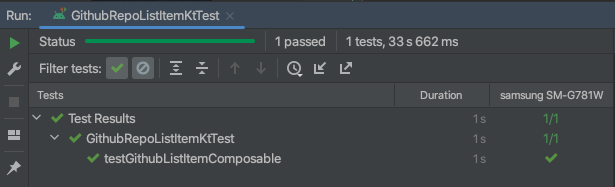
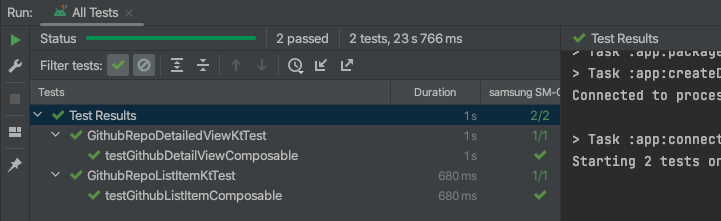
Added Detailed View using Compose. Updated readme images/gif

diff --git a/app/src/main/java/com/shreyas/nytimes/ui/GithubRepoDetailedView.kt b/app/src/main/java/com/shreyas/nytimes/ui/GithubRepoDetailedView.kt
@@ -1,0 +1,190 @@
+package com.shreyas.nytimes.ui
+
+import android.content.res.Configuration
+import androidx.compose.foundation.Image
+import androidx.compose.foundation.ScrollState
+import androidx.compose.foundation.layout.BoxWithConstraints
+import androidx.compose.foundation.layout.Column
+import androidx.compose.foundation.layout.Row
+import androidx.compose.foundation.layout.Spacer
+import androidx.compose.foundation.layout.fillMaxSize
+import androidx.compose.foundation.layout.fillMaxWidth
+import androidx.compose.foundation.layout.height
+import androidx.compose.foundation.layout.heightIn
+import androidx.compose.foundation.layout.padding
+import androidx.compose.foundation.layout.wrapContentHeight
+import androidx.compose.foundation.rememberScrollState
+import androidx.compose.foundation.verticalScroll
+import androidx.compose.material.ContentAlpha
+import androidx.compose.material.Divider
+import androidx.compose.material.LocalContentAlpha
+import androidx.compose.material.MaterialTheme
+import androidx.compose.material.Surface
+import androidx.compose.material.Text
+import androidx.compose.runtime.Composable
+import androidx.compose.runtime.CompositionLocalProvider
+import androidx.compose.ui.Modifier
+import androidx.compose.ui.graphics.painter.Painter
+import androidx.compose.ui.layout.ContentScale
+import androidx.compose.ui.platform.LocalContext
+import androidx.compose.ui.platform.LocalDensity
+import androidx.compose.ui.res.stringResource
+import androidx.compose.ui.text.font.FontWeight
+import androidx.compose.ui.tooling.preview.Preview
+import androidx.compose.ui.unit.Dp
+import androidx.compose.ui.unit.coerceAtLeast
+import androidx.compose.ui.unit.dp
+import coil.compose.rememberAsyncImagePainter
+import coil.request.ImageRequest
+import coil.size.Size
+import com.shreyas.nytimes.R
+import com.shreyas.nytimes.model.RepositoryData
+import com.shreyas.nytimes.ui.theme.GithubRepositoryTheme
+import com.shreyas.nytimes.utils.GithubRepositoryDataProvider
+
+@Composable
+fun GithubRepoDetailedView(
+    repositoryData: RepositoryData
+) {
+    val scrollState = rememberScrollState()
+
+    Column(modifier = Modifier.fillMaxSize()) {
+        BoxWithConstraints {
+            Surface {
+                Column(
+                    modifier = Modifier
+                        .fillMaxSize()
+                        .verticalScroll(scrollState)
+                ) {
+                    GithubRepoHeader(
+                        scrollState,
+                        repositoryData,
+                        this@BoxWithConstraints.maxHeight
+                    )
+                    GithubRepoContent(
+                        repositoryData = repositoryData,
+                        containerHeight = this@BoxWithConstraints.maxHeight
+                    )
+                }
+            }
+        }
+    }
+}
+
+@Composable
+private fun GithubRepoHeader(
+    scrollState: ScrollState,
+    repositoryData: RepositoryData,
+    containerHeight: Dp
+) {
+    val offSet = (scrollState.value / 2)
+    val offsetDp = with(LocalDensity.current) { offSet.toDp() }
+    val avatar: Painter = rememberAsyncImagePainter(
+        model = ImageRequest.Builder(LocalContext.current)
+            .data(repositoryData.owner.avatar_url)
+            .size(Size.ORIGINAL)
+            .build()
+    )
+
+    Image(
+        modifier = Modifier
+            .heightIn(max = containerHeight / 2)
+            .fillMaxWidth()
+            .padding(top = offsetDp),
+        painter = avatar,
+        contentDescription = "Github Repository Avatar",
+        contentScale = ContentScale.Crop
+    )
+}
+
+@Composable
+private fun GithubRepoContent(
+    repositoryData: RepositoryData,
+    containerHeight: Dp
+) {
+    Column {
+        Spacer(modifier = Modifier.height(8.dp))
+
+        RepoName(repositoryData)
+
+        RepoProperty(
+            label = stringResource(id = R.string.description),
+            value = repositoryData.description
+        )
+
+        RepoProperty(
+            label = stringResource(id = R.string.htmlUrl),
+            value = repositoryData.html_url,
+            isLink = true
+        )
+
+        // Add a spacer that always shows part (320.dp) of the fields list regardless of the device,
+        // in order to always leave some content at the top.
+        Spacer(modifier = Modifier.height((containerHeight - 320.dp).coerceAtLeast(0.dp)))
+    }
+}
+
+@Composable
+private fun RepoName(
+    repositoryData: RepositoryData
+) {
+    Row(
+        modifier = Modifier.padding(bottom = 8.dp)
+    ) {
+        Text(
+            text = repositoryData.name,
+            modifier = Modifier
+                .fillMaxWidth()
+                .wrapContentHeight()
+                .padding(start = 15.dp),
+            style = MaterialTheme.typography.h5,
+            fontWeight = FontWeight.Bold,
+            minLines = 1,
+            maxLines = 2
+        )
+    }
+}
+
+@Composable
+private fun RepoProperty(
+    label: String,
+    value: String,
+    isLink: Boolean = false
+) {
+    Column(modifier = Modifier.padding(start = 16.dp, end = 16.dp, bottom = 16.dp)) {
+        Divider()
+        CompositionLocalProvider(LocalContentAlpha provides ContentAlpha.medium) {
+            Text(
+                text = label,
+                modifier = Modifier
+                    .height(24.dp)
+                    .padding(top = 8.dp),
+                style = MaterialTheme.typography.caption,
+            )
+        }
+        val style = if (isLink) {
+            MaterialTheme.typography.body1.copy(color = MaterialTheme.colors.primary)
+        } else {
+            MaterialTheme.typography.body1
+        }
+        Text(
+            text = value,
+            modifier = Modifier
+                .fillMaxWidth()
+                .wrapContentHeight()
+                .padding(top = 4.dp),
+            style = style,
+            minLines = 3
+        )
+    }
+}
+
+@Preview(showBackground = true, backgroundColor = 0xFFFFFFFF)
+@Preview("Night", uiMode = Configuration.UI_MODE_NIGHT_YES, showBackground = true)
+@Composable
+private fun GithubRepoDetailedViewPreview() {
+    GithubRepositoryTheme {
+        GithubRepoDetailedView(repositoryData = GithubRepositoryDataProvider.repositoryData)
+    }
+}
+

diff --git a/app/src/androidTest/java/com/shreyas/nytimes/ui/GithubRepoDetailedViewKtTest.kt b/app/src/androidTest/java/com/shreyas/nytimes/ui/GithubRepoDetailedViewKtTest.kt
@@ -1,0 +1,54 @@
+package com.shreyas.nytimes.ui
+
+import androidx.compose.material.MaterialTheme
+import androidx.compose.material.Surface
+import androidx.compose.ui.test.assertIsDisplayed
+import androidx.compose.ui.test.junit4.createComposeRule
+import androidx.compose.ui.test.onNodeWithText
+import androidx.test.ext.junit.runners.AndroidJUnit4
+import com.shreyas.nytimes.model.OwnerData
+import com.shreyas.nytimes.model.RepositoryData
+import com.shreyas.nytimes.ui.theme.GithubRepositoryTheme
+import org.junit.Before
+import org.junit.Rule
+import org.junit.Test
+import org.junit.runner.RunWith
+
+@RunWith(AndroidJUnit4::class)
+class GithubRepoDetailedViewKtTest {
+
+    @get:Rule
+    val composeTestRule = createComposeRule()
+
+    private lateinit var mockRepoData: RepositoryData
+
+    @Before
+    fun setup() {
+        mockRepoData = RepositoryData(
+            name = "okhttp",
+            description = "Square’s meticulous HTTP client for the JVM, Android, and GraalVM.",
+            stargazers_count = 44786,
+            forks_count = 9275,
+            updated_at = "2023-12-12T02:20:23Z",
+            html_url = "https://github.com/square/okhttp",
+            owner = OwnerData(avatar_url = "https://avatars.githubusercontent.com/u/82592?v=4")
+        )
+        composeTestRule.setContent {
+            GithubRepositoryTheme {
+                Surface(color = MaterialTheme.colors.background) {
+                    GithubRepoDetailedView(repositoryData = mockRepoData)
+                }
+            }
+        }
+    }
+
+    @Test
+    fun testGithubDetailViewComposable() {
+        composeTestRule.run {
+            onNodeWithText("okhttp").assertIsDisplayed()
+            onNodeWithText("Square’s meticulous HTTP client for the JVM, Android, and GraalVM.")
+                .assertIsDisplayed()
+            onNodeWithText("https://github.com/square/okhttp").assertIsDisplayed()
+        }
+    }
+}

diff --git a/app/src/main/java/com/shreyas/nytimes/ui/GithubRepoListItem.kt b/app/src/main/java/com/shreyas/nytimes/ui/GithubRepoListItem.kt
@@ -38,9 +38,9 @@ import coil.compose.rememberAsyncImagePainter
 import coil.request.ImageRequest
 import coil.size.Size
 import com.shreyas.nytimes.R
-import com.shreyas.nytimes.model.OwnerData
 import com.shreyas.nytimes.model.RepositoryData
 import com.shreyas.nytimes.ui.theme.GithubRepositoryTheme
+import com.shreyas.nytimes.utils.GithubRepositoryDataProvider
 import java.time.Instant
 import java.time.LocalDateTime
 import java.time.ZoneOffset
@@ -212,19 +212,11 @@ fun GithubRepoListItem(
 @Composable
 private fun GithubRepositoryLineItemPreview() {
     GithubRepositoryTheme {
-        GithubRepoListItem(previewRepoData(), navigateToGitHubDetailView = {})
+        GithubRepoListItem(
+            GithubRepositoryDataProvider.repositoryData,
+            navigateToGitHubDetailView = {})
     }
 }
-
-private fun previewRepoData(): RepositoryData = RepositoryData(
-    name = "okhttp",
-    description = "Square’s meticulous HTTP client for the JVM, Android, and GraalVM.",
-    stargazers_count = 44786,
-    forks_count = 9275,
-    updated_at = "2023-12-12T02:20:23Z",
-    html_url = "https://github.com/square/okhttp",
-    owner = OwnerData(avatar_url = "https://avatars.githubusercontent.com/u/82592?v=4")
-)
 
 @Composable
 private fun DrawComposableImage(

diff --git a/app/src/androidTest/java/com/shreyas/nytimes/ui/GithubRepoListItemKtTest.kt b/app/src/androidTest/java/com/shreyas/nytimes/ui/GithubRepoListItemKtTest.kt
@@ -37,7 +37,7 @@ class GithubRepoListItemKtTest {
         composeTestRule.setContent {
             GithubRepositoryTheme {
                 Surface(color = MaterialTheme.colors.background) {
-                    GithubRepoListItem(repoData = mockRepoData)
+                    GithubRepoListItem(repoData = mockRepoData, navigateToGitHubDetailView = {})
                 }
             }
         }
@@ -51,7 +51,7 @@ class GithubRepoListItemKtTest {
                 .assertIsDisplayed()
             onNodeWithText("44786").assertIsDisplayed()
             onNodeWithText("9275").assertIsDisplayed()
-            onNodeWithTag("repoLastUpdatedDate").assertExists()
+            onNodeWithTag("repoLastUpdatedDate", useUnmergedTree = true).assertExists()
         }
     }
 }

diff --git a/app/src/main/java/com/shreyas/nytimes/view/DetailedViewActivity.kt b/app/src/main/java/com/shreyas/nytimes/view/DetailedViewActivity.kt
@@ -6,15 +6,20 @@ import android.os.Bundle
 import androidx.activity.compose.setContent
 import androidx.appcompat.app.AppCompatActivity
 import com.shreyas.nytimes.model.RepositoryData
+import com.shreyas.nytimes.ui.GithubRepoDetailedView
 import com.shreyas.nytimes.ui.theme.GithubRepositoryTheme
 
 class DetailedViewActivity : AppCompatActivity() {
+
+    private val repoData: RepositoryData by lazy {
+        intent?.getSerializableExtra(REPO_DATA, RepositoryData::class.java) as RepositoryData
+    }
 
     override fun onCreate(savedInstanceState: Bundle?) {
         super.onCreate(savedInstanceState)
         setContent {
             GithubRepositoryTheme {
-
+                GithubRepoDetailedView(repositoryData = repoData)
             }
         }
     }

diff --git a/app/src/main/java/com/shreyas/nytimes/utils/GithubRepositoryDataProvider.kt b/app/src/main/java/com/shreyas/nytimes/utils/GithubRepositoryDataProvider.kt
@@ -1,0 +1,17 @@
+package com.shreyas.nytimes.utils
+
+import com.shreyas.nytimes.model.OwnerData
+import com.shreyas.nytimes.model.RepositoryData
+
+object GithubRepositoryDataProvider {
+
+    val repositoryData = RepositoryData(
+        name = "okhttp",
+        description = "Square’s meticulous HTTP client for the JVM, Android, and GraalVM.",
+        stargazers_count = 44786,
+        forks_count = 9275,
+        updated_at = "2023-12-12T02:20:23Z",
+        html_url = "https://github.com/square/okhttp",
+        owner = OwnerData(avatar_url = "https://avatars.githubusercontent.com/u/82592?v=4")
+    )
+}

diff --git a/buildSrc/src/main/kotlin/AppConfig.kt b/buildSrc/src/main/kotlin/AppConfig.kt
@@ -1,7 +1,7 @@
 object AppConfig {
 
     const val compileSDK = "android-34"
-    const val minSDK = 27
+    const val minSDK = 33
     const val targetSDK = 34
     const val versionCode = 1
     const val versionName = "1.0.0"
